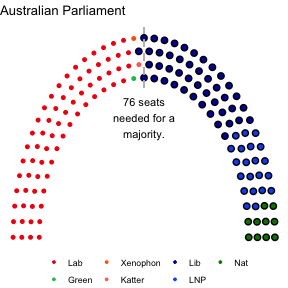
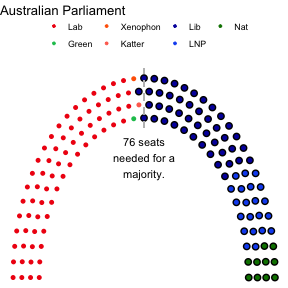
update README

diff --git a/README.md b/README.md
@@ -89,7 +89,7 @@ senate <- ggplot(us_senate, aes(x,
                                 colour = party_long)) +
   geom_parliament_seats() + 
   geom_highlight_government(government == 1) +
-  theme_ggparliament() +
+  theme_ggparliament(legend = FALSE) +
   labs(colour = NULL, 
        title = "United States Senate",
        subtitle = "The party that has control of the Senate is encircled in black.") +
@@ -217,12 +217,11 @@ au <-ggplot(australia1, aes(x,
   geom_parliament_seats() + 
   geom_highlight_government(government == 1) + 
   draw_majoritythreshold(n = 76, label = TRUE, type = 'horseshoe') + 
-  theme_ggparliament() +
+  theme_ggparliament(legend = 'bottom') +
   labs(colour = NULL, 
        title = "Australian Parliament") +
   scale_colour_manual(values = australia$colour, 
-                      limits = australia$party_short) + 
-  theme(legend.position = 'bottom') 
+                      limits = australia$party_short) 
 au
 ```
 
